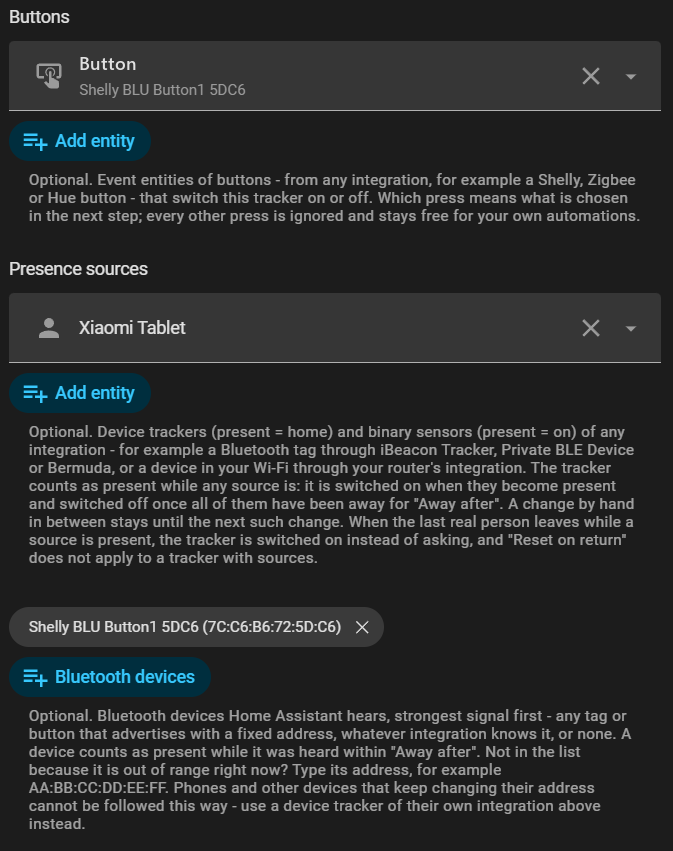
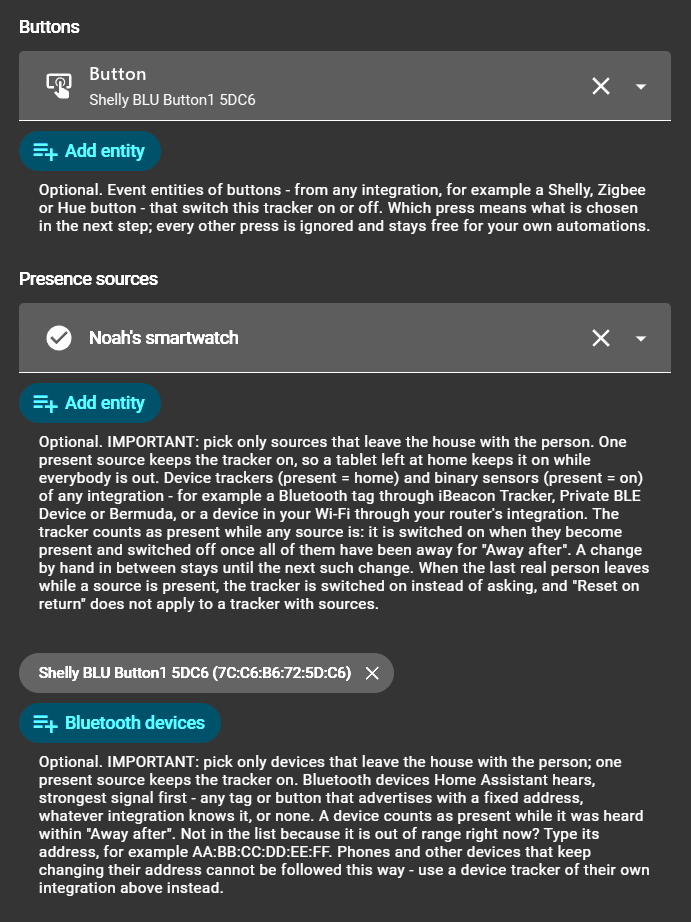
Show the form with its source advice

diff --git a/README.md b/README.md
@@ -372,7 +372,7 @@ and presence sources only add more ways to switch it; the switch, your
 automations and the questions keep working. Both are picked in the tracker's
 form (**Add virtual tracker** or **Edit virtual tracker**).
 
-![The optional fields of a tracker's form: a Shelly BLU button under Buttons, a tablet's device tracker under Presence sources, and the same Shelly picked under Bluetooth devices](images/sources.png)
+![The optional fields of a tracker's form: a Shelly BLU button under Buttons, a smartwatch under Presence sources, and the same Shelly picked under Bluetooth devices](images/sources.png)
 
 Three examples:
 
